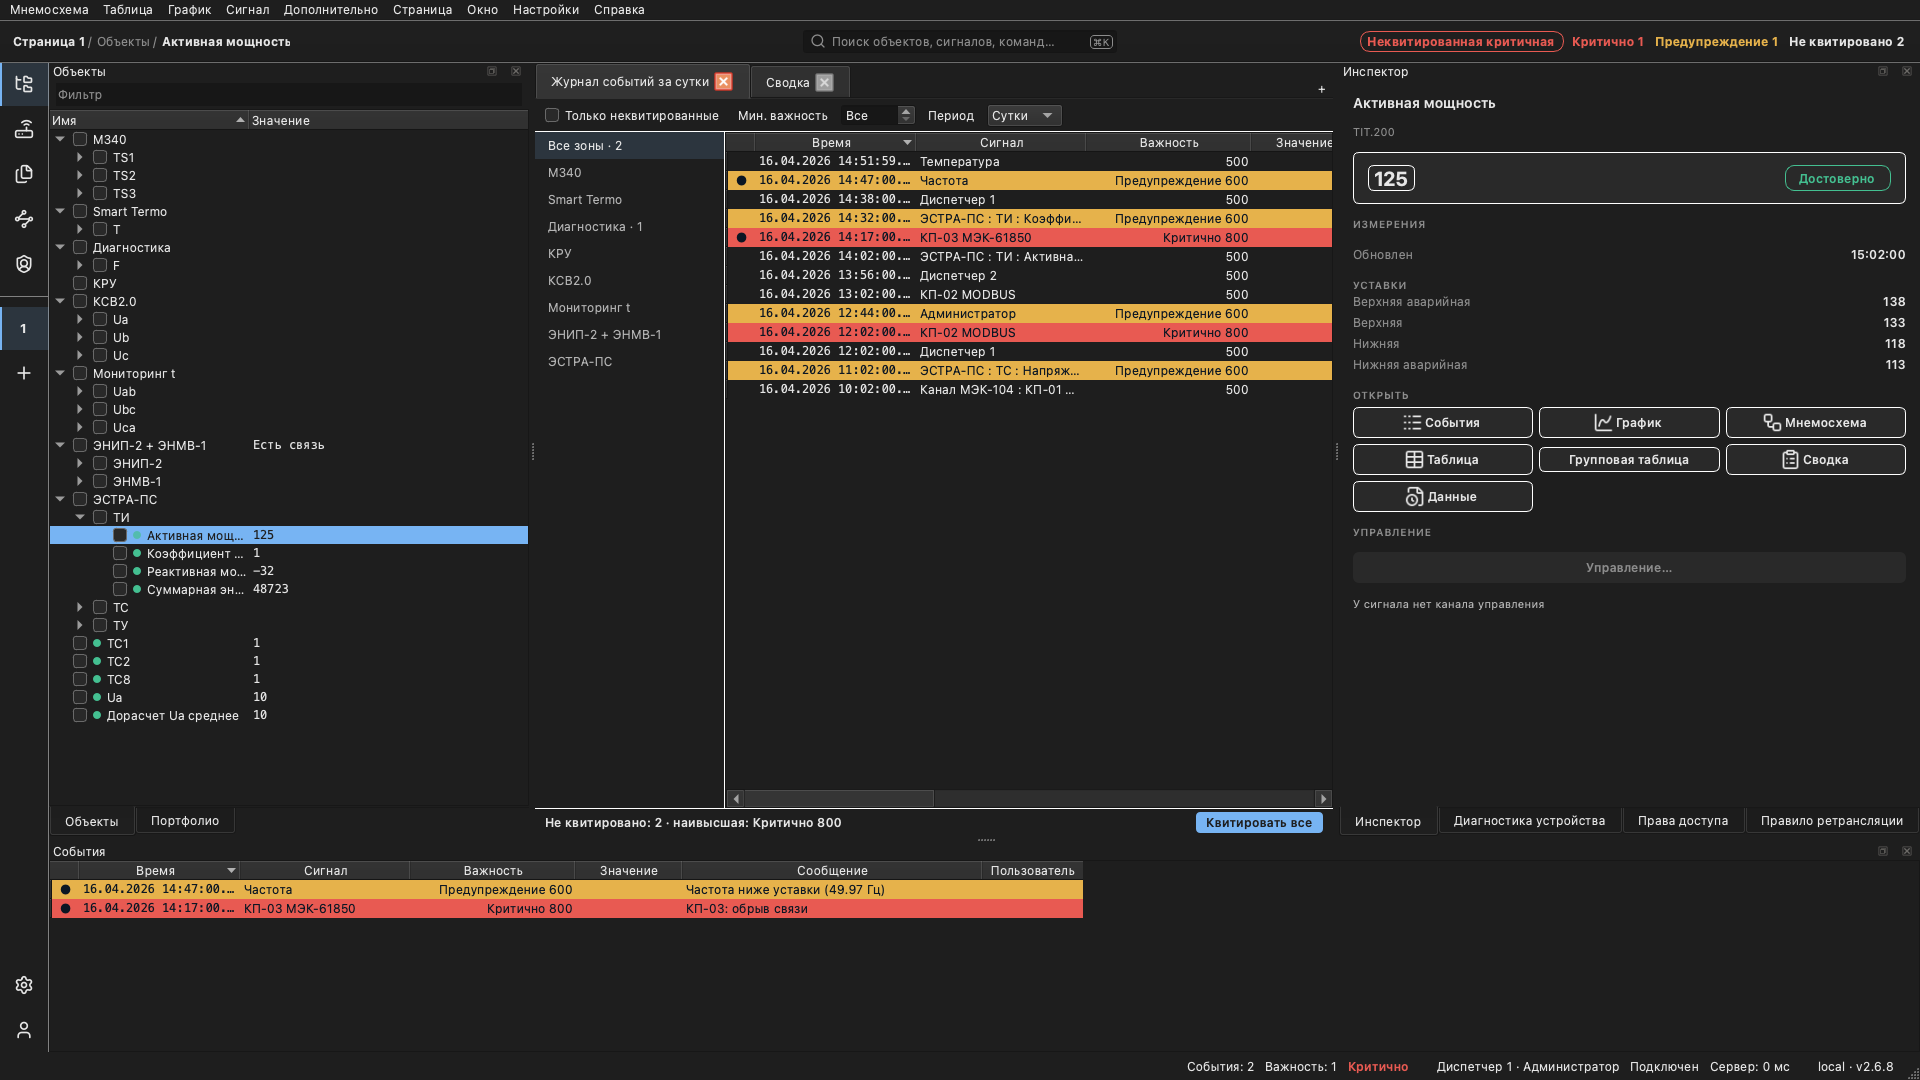
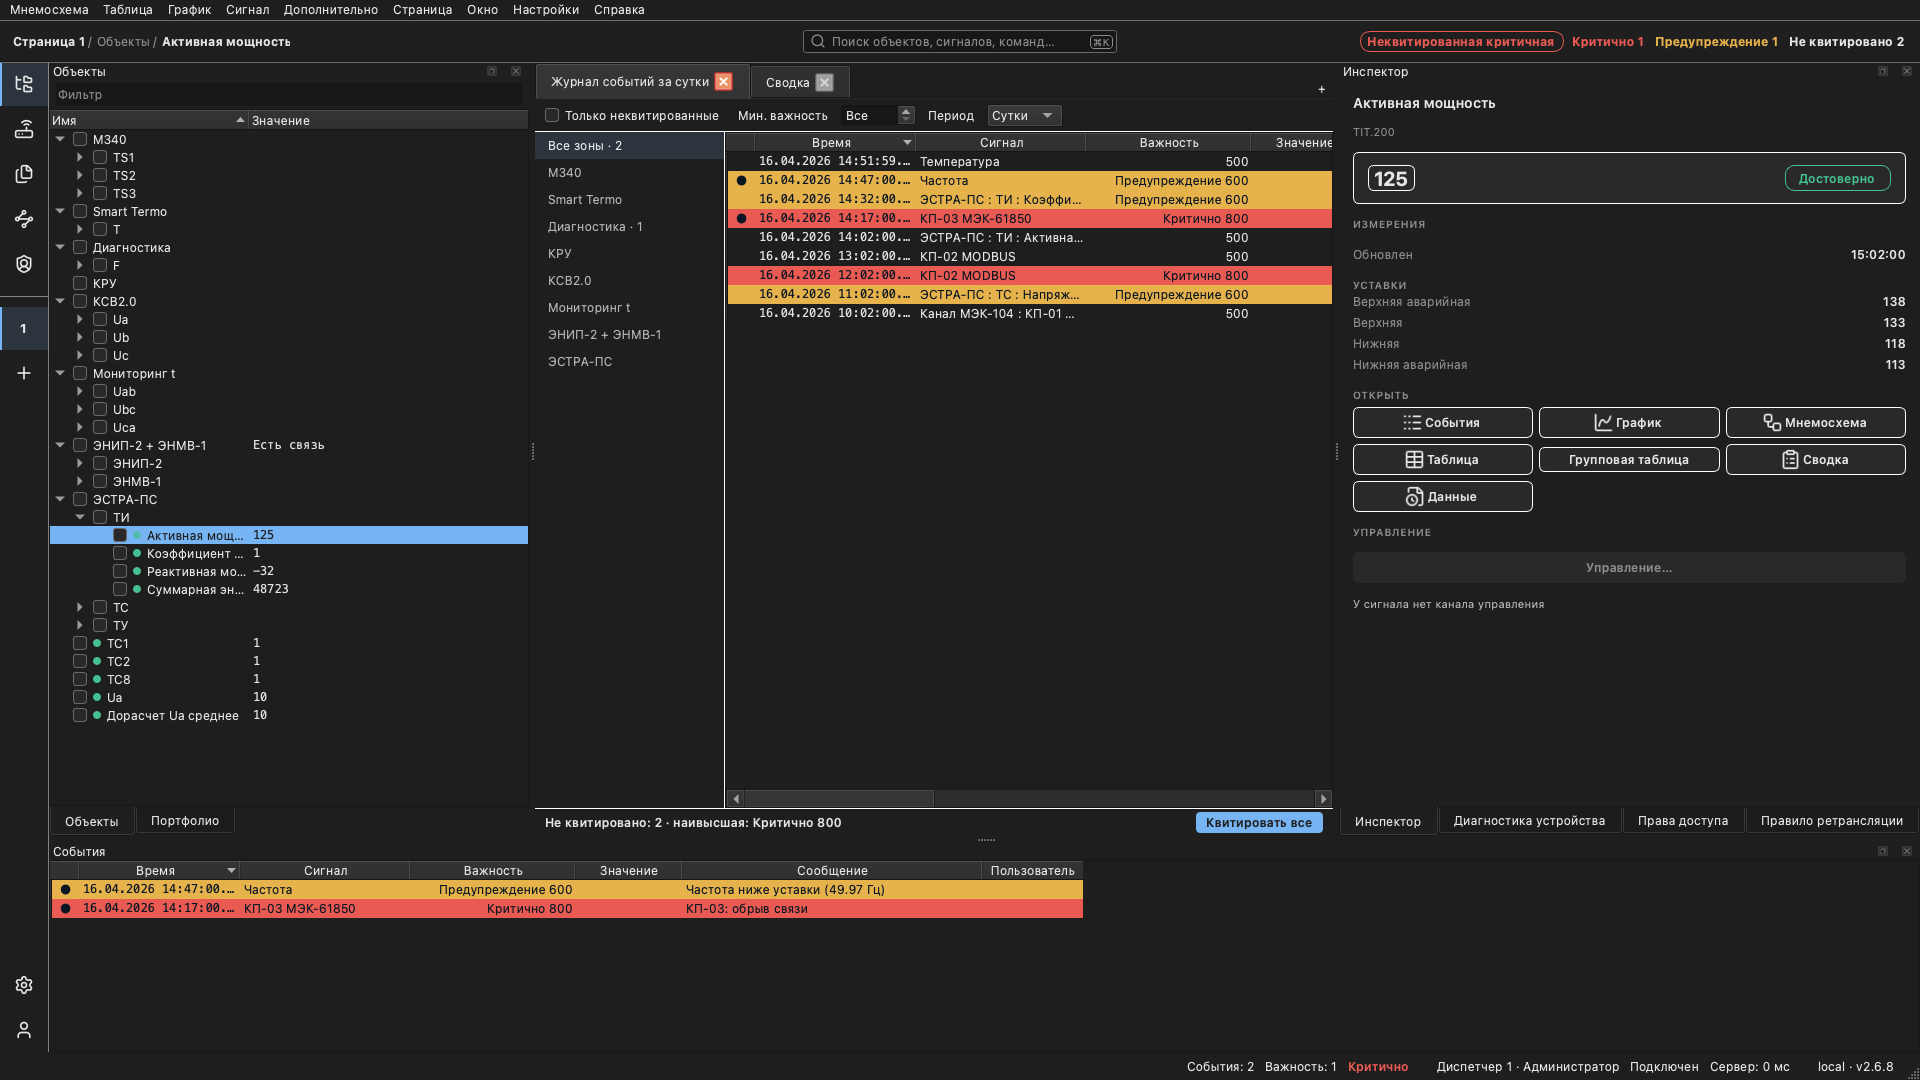
screenshots: publish the four captures that contradicted the manual (1103)
Formats, Simulated Signals and Databases rendered only their name columns,
plus a raw node-id column. The test address space typed their folders with
plain FolderType, which declares no creatable child, so the table had no
property columns. It now carries TsFormatsFolderType,
SimulationSignalsFolderType and HistoricalDatabasesFolderType, each with
its OptionalPlaceholder (data_items.xml i=401/411 and i=402/412,
history.xml i=406/417), following the DevicesFolderType precedent. It also
carries the SimulationFunctionDataType enumeration with its EnumStrings,
and the display names of history.xml and data_items.xml.

Fixture data:
- the TS formats' colours were Delphi BGR values, but the Client reads a
  palette index, so every cell read «<Стандартный>»; they are now indices;
- the simulation signals' types now match their names, and their periods
  are in milliseconds as the columns say;
- the three captures are 700 px wide.

events-alarm-surface.png no longer shows the audit rows the fixture seeds
for audit-log.png, now that the operator journal hides them. The same rows
are gone from workbench-window.png.

Both appearances are re-rendered, and the light pass is stamped by hand.
The four images are embedded in client/workbench.md (#historical-db,
#ts-formats, #simulation-items) and client/events.md, in RU and EN, and are
in current_generator_owned_subset (now 73). Two 2.6.8 caveats are added,
to be removed at the release that carries this branch's Client fixes:
[…]

Changed region(s): [[0.375, 0.1528, 0.7188, 0.3667]]

diff --git a/client/workbench.md b/client/workbench.md
@@ -699,6 +699,10 @@ IEC 61850 Сервер объекты не передает, и устройст
 продолжительность очистки событий и измерений. Растущая очередь записи означает,
 что база не успевает за потоком данных.
 
+![Окно «Базы данных»]({{ '/img/admin-historical-dbs.png' | relative_url }})
+
+*Окно «Базы данных» с тремя архивами; на снимке видны первые столбцы, остальные — правее.*
+
 На эти базы ссылаются параметры объектов и устройств: «Архив значений» объекта и
 «Архив событий» устройства выбираются из этого списка. Настройка самих баз со
 стороны Сервера описана на странице [Базы данных и файлы]({{ '/server/data/' | relative_url }}#history).
@@ -709,6 +713,11 @@ IEC 61850 Сервер объекты не передает, и устройст
 пара состояний: «Подпись 0» и «Подпись 1» — тексты, которыми подписываются
 состояния, «Цвет 0» и «Цвет 1» — цвета, которыми они окрашиваются. Цвет
 выбирается из палитры клиента по имени, а не задаётся составляющими RGB.
+В версии 2.6.8 имена цветов показываются по-английски (Green, Red).
+
+![Окно «Форматы»]({{ '/img/admin-formats.png' | relative_url }})
+
+*Окно «Форматы»: подписи и цвета двух состояний каждого формата.*
 
 Формат назначается объекту в его параметрах (см. [Объекты
 данных]({{ '/dev/data-items/' | relative_url }})), поэтому одно изменение формата меняет вид всех
@@ -721,7 +730,11 @@ IEC 61850 Сервер объекты не передает, и устройст
 сигнала, «Период, мс», «Фаза, мс» и «Обновление, мс» — как часто выдаётся новое
 значение. Имитационные сигналы используются при наладке и обучении: они
 позволяют проверить схемы, графики и тревоги до того, как подключено
-оборудование.
+оборудование. В версии 2.6.8 столбец «Тип» в этом окне может не отображаться.
+
+![Окно «Имитационные сигналы»]({{ '/img/admin-simulation.png' | relative_url }})
+
+*Окно «Имитационные сигналы»: форма, период, фаза и интервал обновления каждого сигнала.*
 
 ## Узлы {#nodes}
 

diff --git a/en/client/workbench.md b/en/client/workbench.md
@@ -689,6 +689,10 @@ objects write into it, Written values, Write queue, Write latency (µs), and how
 long event and value cleanup take. A growing write queue means the database is
 not keeping up with the incoming data.
 
+![The Databases window]({{ '/img/admin-historical-dbs.png' | relative_url }})
+
+*The Databases window with three archives; the first columns are in view, the rest are to the right.*
+
 Object and device parameters point at these databases: an object's value
 archive and a device's event archive are chosen from this list. Configuring the
 databases on the server side is described under
@@ -700,7 +704,12 @@ The Formats window defines how two-state (discrete) signals look on screen.
 Each format is a pair of states: "Label 0" and "Label 1" — the texts the states
 are captioned with — and "Colour 0" and "Colour 1" — the colours they are drawn
 in. A colour is chosen from the client's palette by name, not entered as RGB
-components.
+components. In version 2.6.8 the colour names are shown in English even in the
+Russian interface.
+
+![The Formats window]({{ '/img/admin-formats.png' | relative_url }})
+
+*The Formats window: the labels and colours of each format's two states.*
 
 A format is assigned to an object in its parameters (see
 [Data items]({{ '/en/dev/data-items/' | relative_url }})), so one edit to a
@@ -713,6 +722,11 @@ with no device involved. Each carries a Type — the waveform — a Period (ms),
 Phase (ms) and an Update interval (ms) saying how often a new value is
 produced. Simulated signals are used for commissioning and training: they let
 displays, graphs and alarms be exercised before any equipment is connected.
+In version 2.6.8 the Type column of this window may be missing.
+
+![The Simulated signals window]({{ '/img/admin-simulation.png' | relative_url }})
+
+*The Simulated signals window: each signal's waveform, period, phase and update interval.*
 
 ## Nodes {#nodes}
 

diff --git a/client/events.md b/client/events.md
@@ -58,6 +58,10 @@ permalink: /client/events/
 Новые события появляются в журнале сразу; события прошедшего периода
 загружаются с Сервера при открытии окна и при смене периода.
 
+![Журнал событий]({{ '/img/events-alarm-surface.png' | relative_url }})
+
+*Журнал событий за сутки: неквитированные события отмечены точкой в первом столбце, внизу — сводка и кнопка «Квитировать все».*
+
 ## Квитирование
 
 Квитирование подтверждает, что оператор увидел событие. Способы:

diff --git a/en/client/events.md b/en/client/events.md
@@ -57,6 +57,10 @@ event journal opened with [*Unacknowledged Only*](#filters) already set.
 New events appear in the journal at once; past events are loaded from the
 Server when the window opens and whenever the period changes.
 
+![Event journal]({{ '/img/events-alarm-surface.png' | relative_url }})
+
+*The event journal for a day: unacknowledged events carry a dot in the first column, and the foot shows a summary and the Acknowledge All button.*
+
 ## Acknowledgement
 
 Acknowledging confirms the operator has seen an event. Ways to do it:
